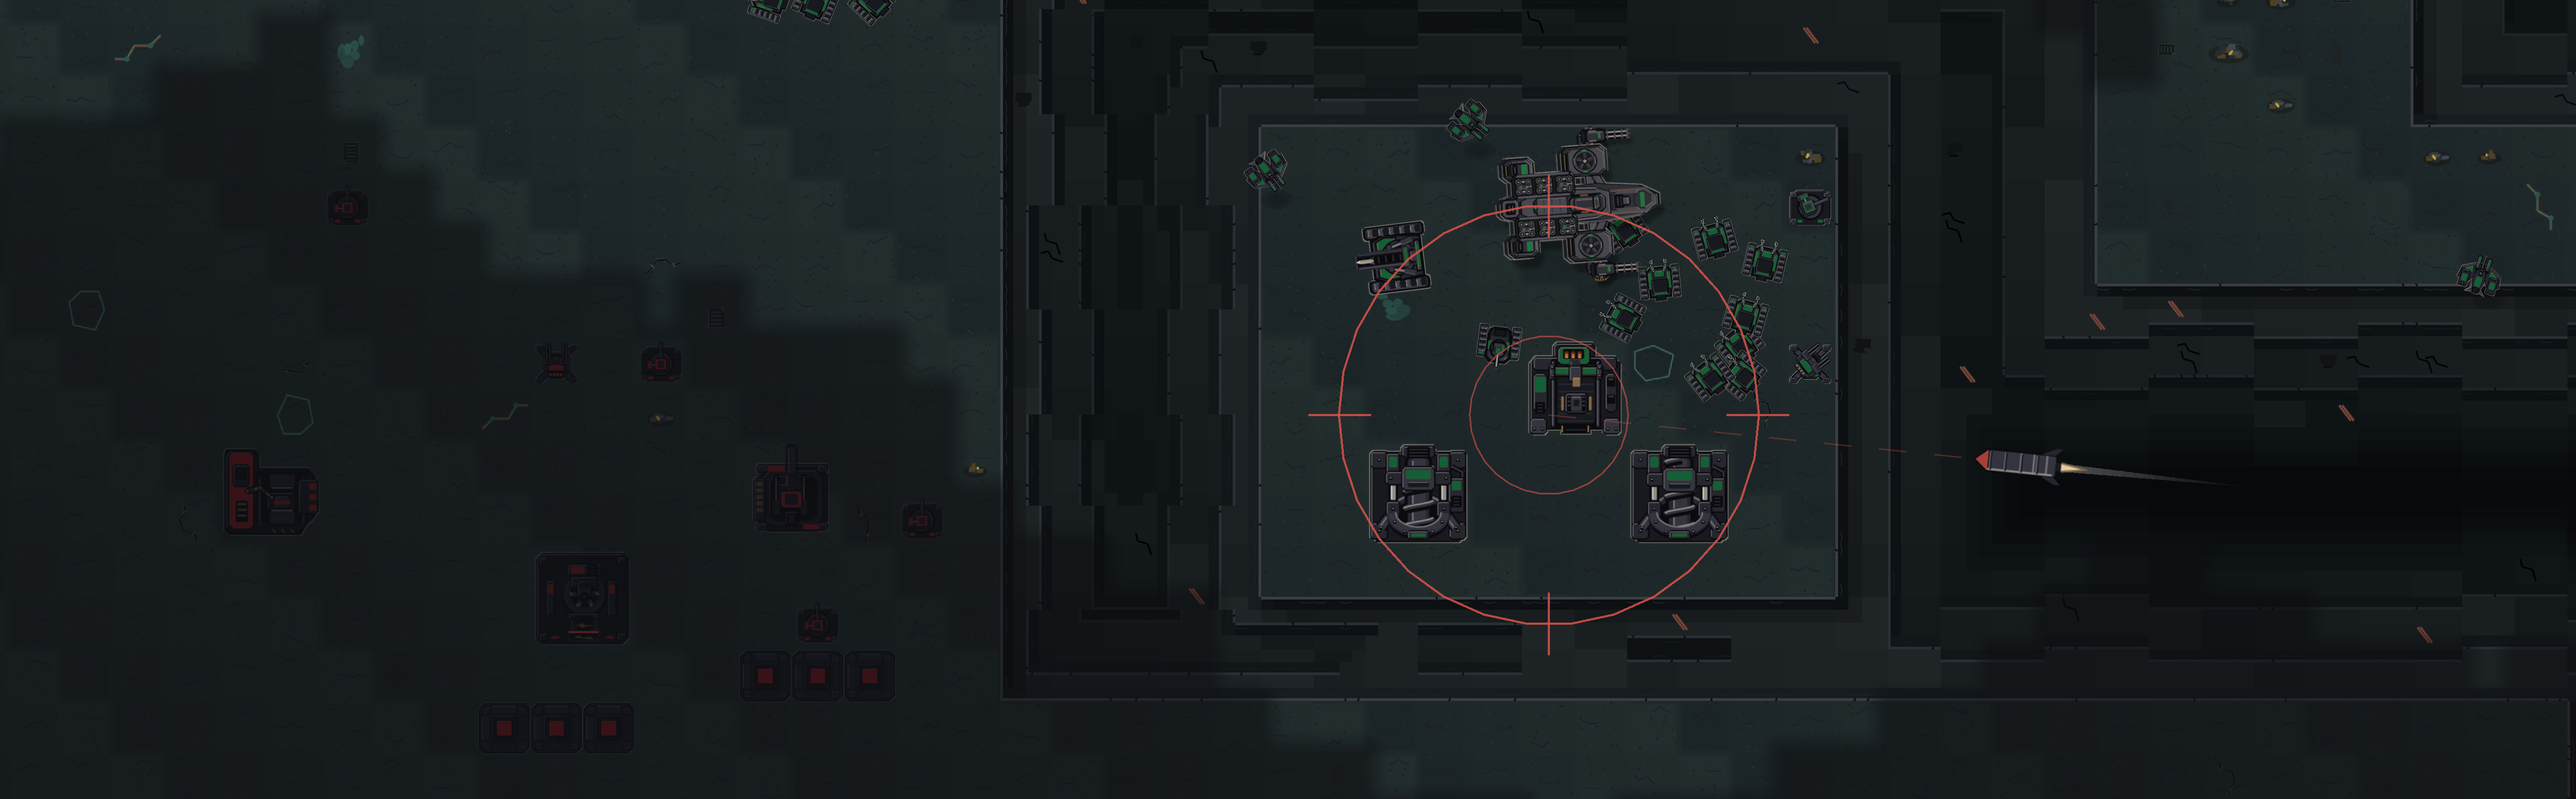
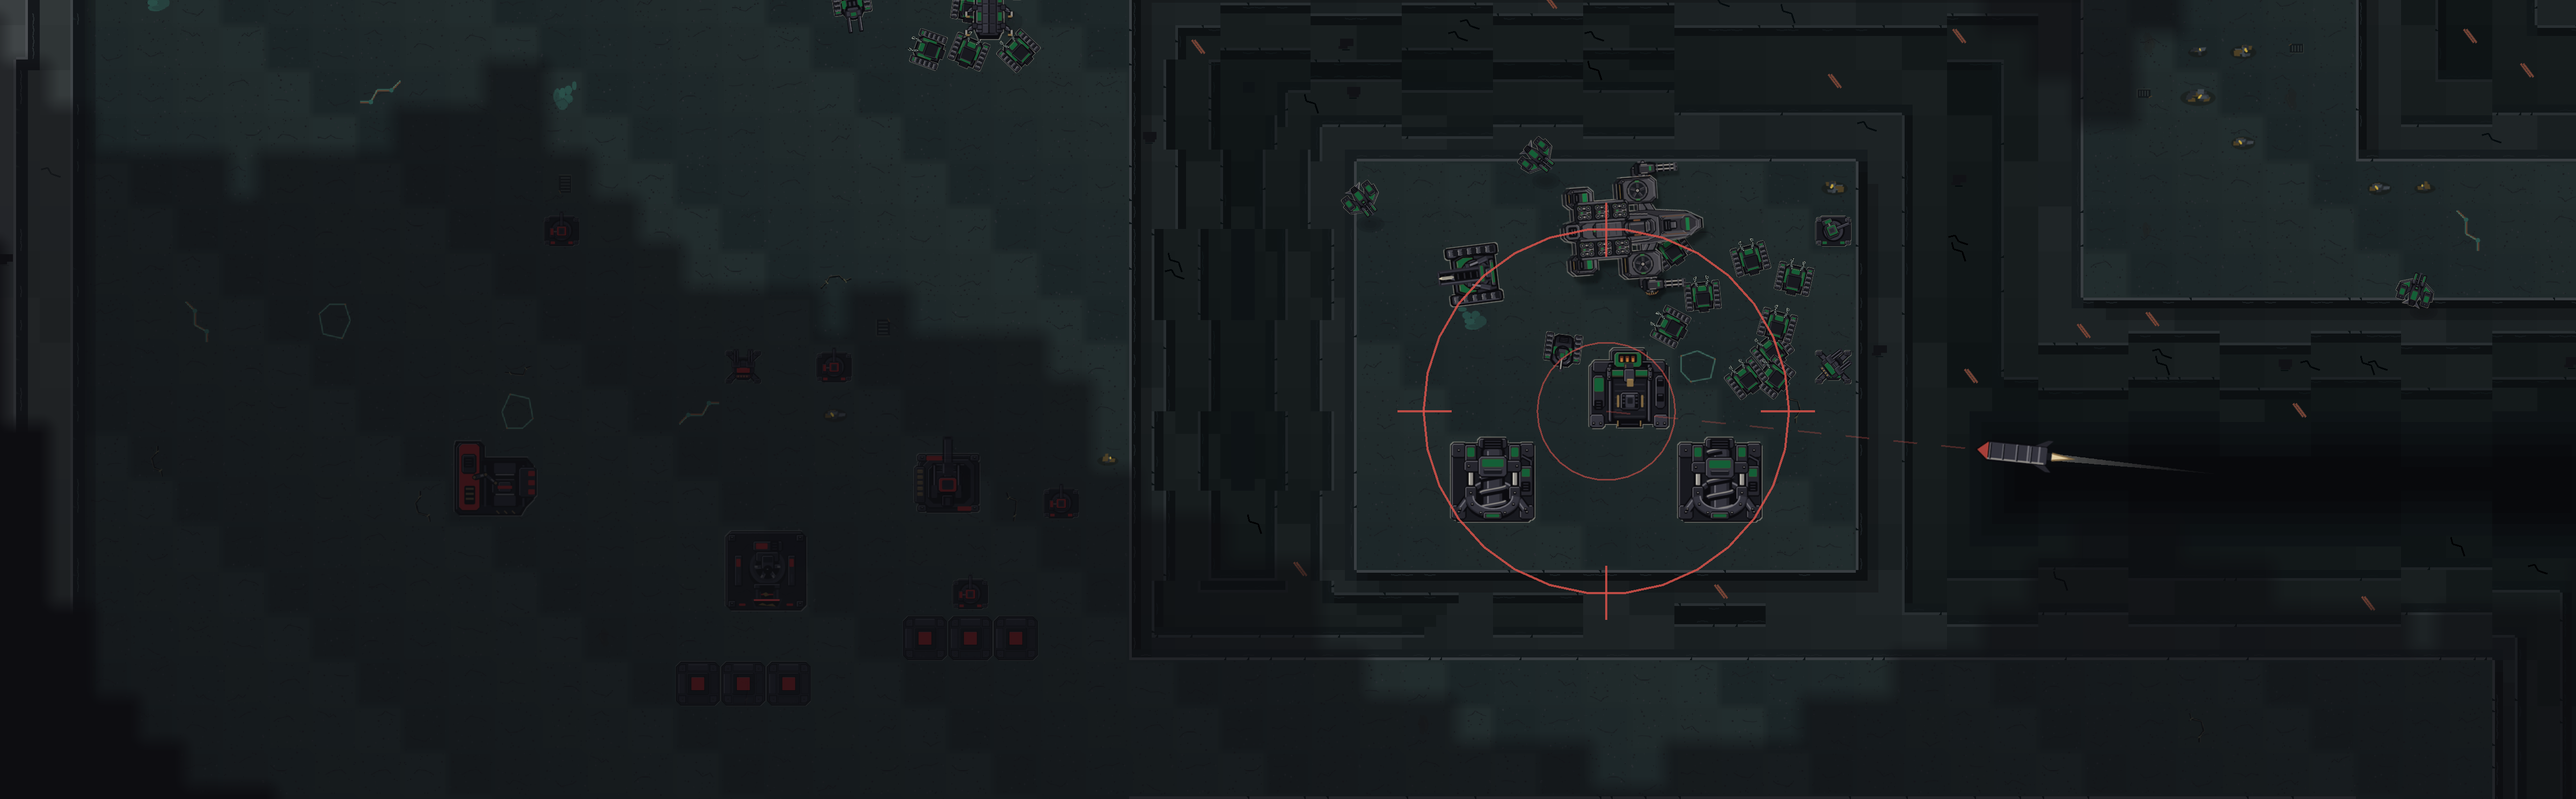
feat(apple): widen the Top Shelf scene and move its wordmark left

diff --git a/tools/gen_icon.py b/tools/gen_icon.py
@@ -84,13 +84,13 @@ TV_ICON_STACKS = (
     ("App Icon - App Store", (1280, 768), (1,)),
 )
 # Each Top Shelf image: its file name, role, size in points, and where the
-# wordmark's left edge sits, in points. tvOS enlarges the focused app's banner
-# and crops about a tenth off each side, so the wordmark sits well inside that.
-# The standard image is the wide one's middle, so both put the wordmark at the
-# same spot in the scene.
+# wordmark's left edge sits, in points. tvOS shows the focused app's banner
+# enlarged about 9% around its centre, which crops its sides, so the wordmark
+# sits well inside the crop. The standard image is the wide one's middle, so
+# both put the wordmark at the same spot in the scene.
 TOP_SHELF_IMAGES = (
-    ("Top Shelf Image", "top-shelf-image", (1920, 720), 220),
-    ("Top Shelf Image Wide", "top-shelf-image-wide", (2320, 720), 420),
+    ("Top Shelf Image", "top-shelf-image", (1920, 720), 180),
+    ("Top Shelf Image Wide", "top-shelf-image-wide", (2320, 720), 380),
 )
 WORDMARK_WIDTH = 660
 # How dark the scene gets at the left edge, behind the wordmark, fading out

diff --git a/tools/test_gen_icon.py b/tools/test_gen_icon.py
@@ -122,7 +122,7 @@ class IconGenerationTests(unittest.TestCase):
         approved = {
[4 lines of base64/hex data omitted]
         }
         for path, digest in approved.items():
             with self.subTest(source=path.name):

diff --git a/tools/production_icon_sources/README.md b/tools/production_icon_sources/README.md
@@ -13,8 +13,9 @@ again.
   Apple TV icon is a 5:3 band of them.
 - `top_shelf_scene.png`: the Top Shelf scene without text, a real frame of a bot
   match on Old Workings captured from the Mac shell in a 2400 by 1200 window
-  (4800 pixels wide), the camera centred on tile (29.5, 37) at zoom 48.7, just
-  before the warhead reaches the island.
+  (4800 pixels wide), the camera centred on tile (27.5, 37) at zoom 42.3, just
+  before the warhead reaches the island. It keeps the capture's rows 475 to
+  1965, clear of the HUD.
 - `top_shelf_scene.json`: that match as a replay, including the commands that
   staged the scene. Replays reproduce only on the build that recorded them, so
   check out the commit in its `meta.build` in a worktree before changing it.
